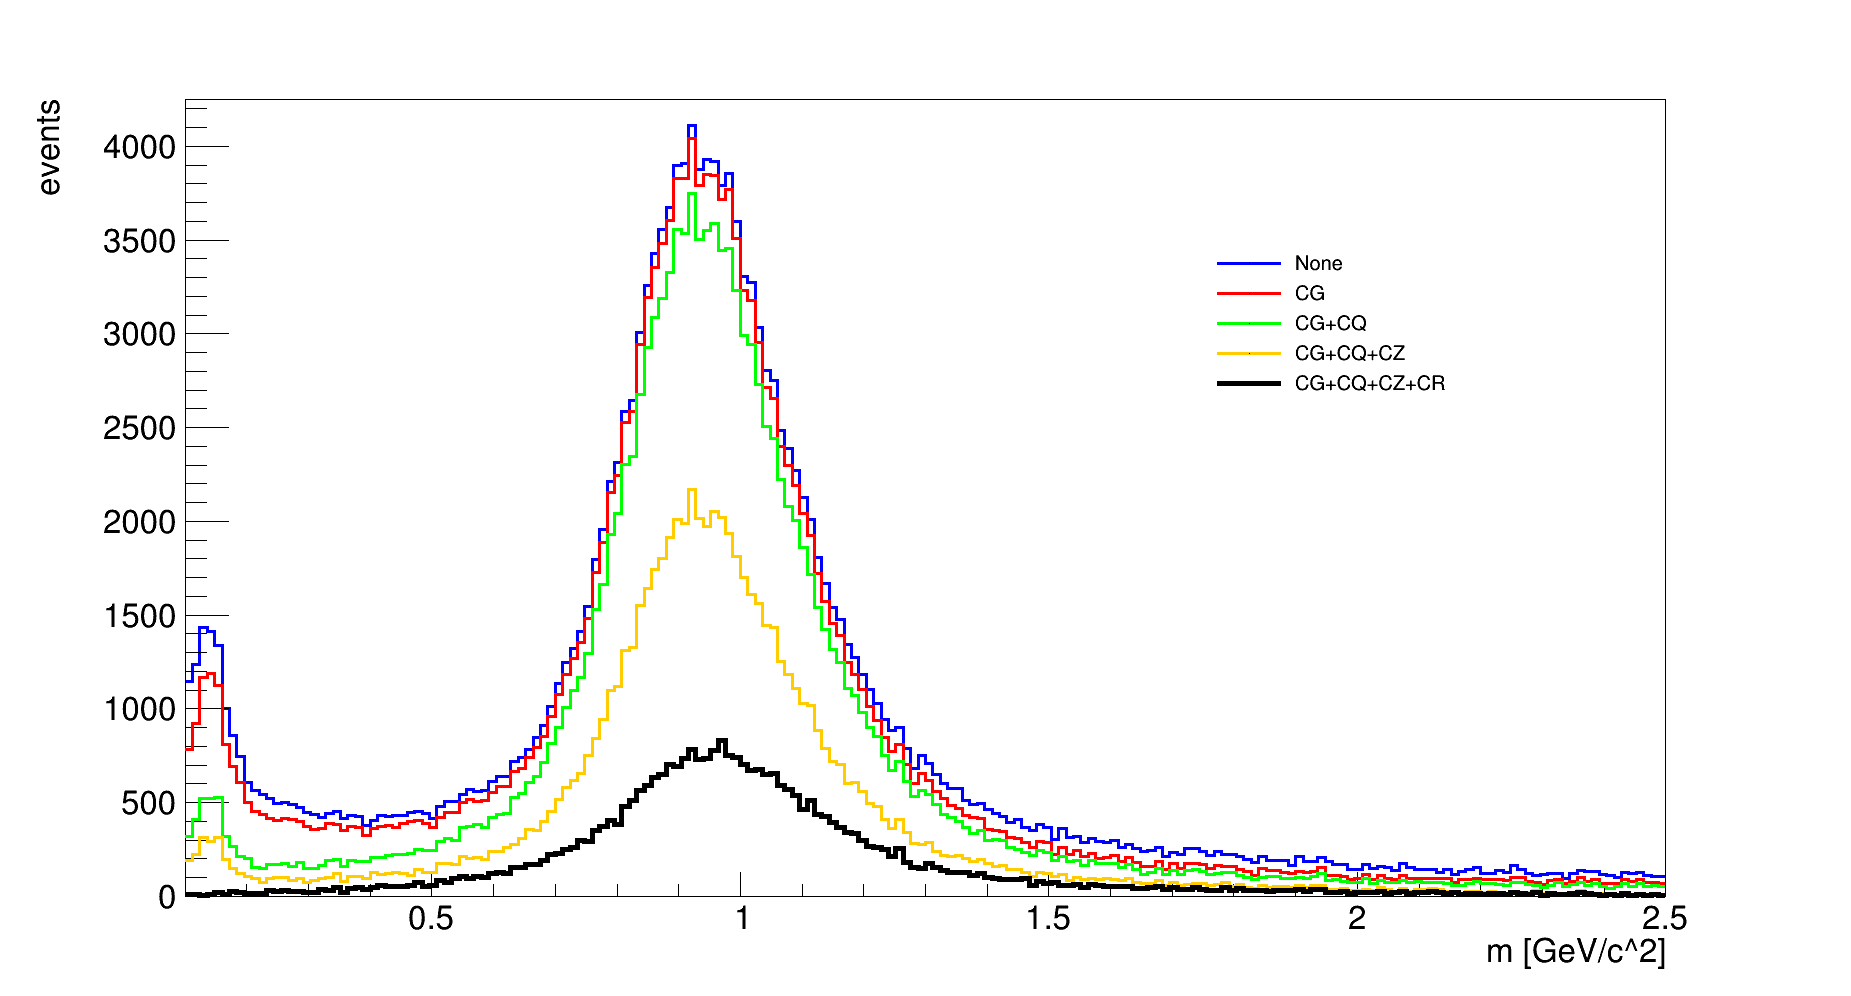
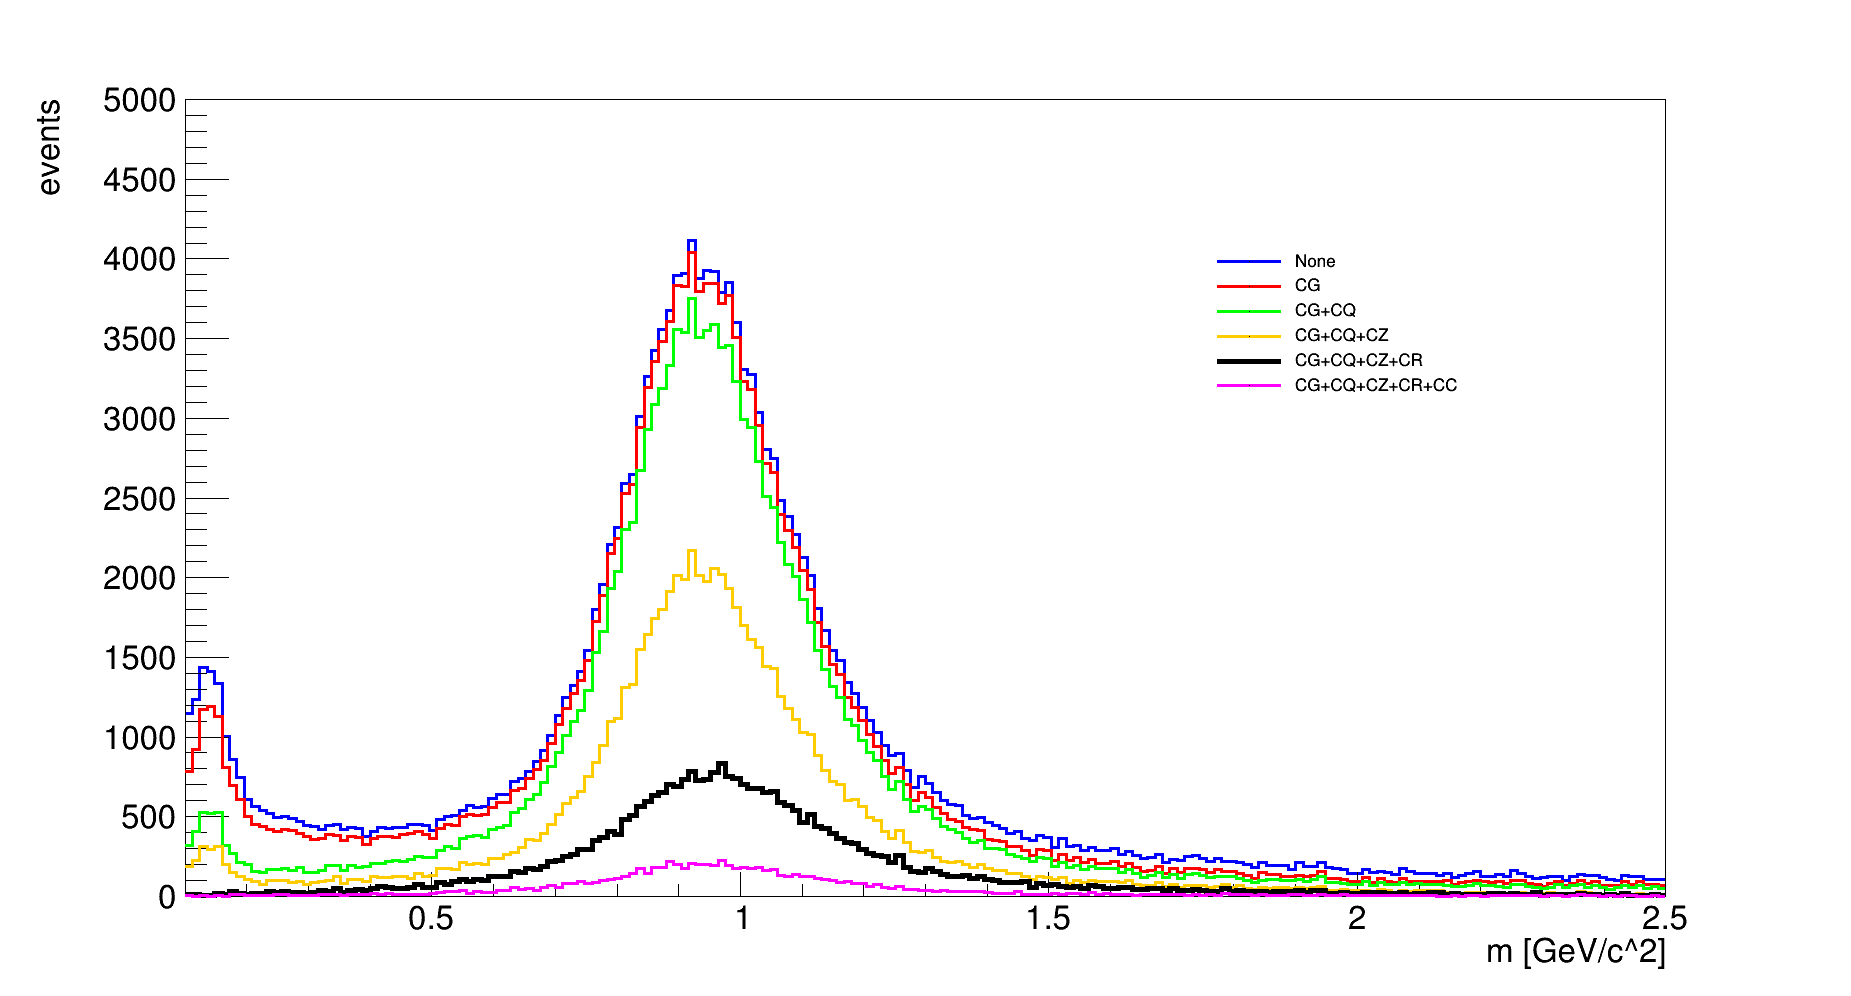
update 28-10-20

diff --git a/CutAnalysis.py b/CutAnalysis.py
@@ -45,6 +45,8 @@ CZb = ROOT.TCut('trk_q_lay[4]{0}0 && trk_q_lay[1]{0}0 && trk_q_lay[2]{0}0 && trk
 CZ = CZa + CZb
 # Geo-magnetic cut-off
 CR = ROOT.TCut('trk_rig > {0}*cf'.format(geo_crit)) # geo-magnetic cut-off
+# TOF - RICH Consistency
+CC = ROOT.TCut('abs(tof_beta-rich_beta)/tof_beta > 0.05')
 
 # ------------------------------------------------------------------------------
 # PLOT FUNCTION
@@ -52,7 +54,7 @@ CR = ROOT.TCut('trk_rig > {0}*cf'.format(geo_crit)) # geo-magnetic cut-off
 
 ROOT.gStyle.SetOptTitle(0)
 
-def cut_plot(par, title='', xlabel='', ylabel='events', stats=False, bins=200, xrange=(0,0), yrange=(0,0), log_y=True, prop=False):
+def cut_plot(par, title='', xlabel='', ylabel='events', stats=False, bins=200, xrange=(0,0), yrange=(0,0), log_y=True, prop=False, lx=0.65, ly=0.6):
     # Create Canvas
     if title == '':
         title = par
@@ -64,18 +66,21 @@ def cut_plot(par, title='', xlabel='', ylabel='events', stats=False, bins=200, x
     chain.Draw('{} >> {}({}, {})'.format(par, title+'3', bins, xrange), CG+CQ, 'SAME')
     chain.Draw('{} >> {}({}, {})'.format(par, title+'4', bins, xrange), CG+CQ+CZ, 'SAME')
     chain.Draw('{} >> {}({}, {})'.format(par, title+'5', bins, xrange), CG+CQ+CZ+CR, 'SAME')
+    chain.Draw('{} >> {}({}, {})'.format(par, title+'6', bins, xrange), CG+CQ+CZ+CR+CC, 'SAME')
     # Get TH1F objects
     hist1 = ROOT.gROOT.FindObject(title+'1')
     hist2 = ROOT.gROOT.FindObject(title+'2')
     hist3 = ROOT.gROOT.FindObject(title+'3')
     hist4 = ROOT.gROOT.FindObject(title+'4')
     hist5 = ROOT.gROOT.FindObject(title+'5')
+    hist6 = ROOT.gROOT.FindObject(title+'6')
     # Coloring
     hist1.SetLineColor(ROOT.kBlue); hist1.SetLineWidth(3)
     hist2.SetLineColor(ROOT.kRed); hist2.SetLineWidth(3)
     hist3.SetLineColor(ROOT.kGreen); hist3.SetLineWidth(3)
     hist4.SetLineColor(ROOT.kOrange); hist4.SetLineWidth(3)
     hist5.SetLineColor(ROOT.kBlack); hist5.SetLineWidth(5)
+    hist6.SetLineColor(ROOT.kMagenta); hist6.SetLineWidth(3)
     # Labelling
     # hist1.SetTitle(title) # Title is bugging, so just get rid of it (won't use it in thesis anyway)
     hist1.GetXaxis().SetTitle(xlabel)
@@ -86,12 +91,13 @@ def cut_plot(par, title='', xlabel='', ylabel='events', stats=False, bins=200, x
         hist1.SetAxisRange(yrange[0], yrange[1], "Y")
     canvas.SetLogy(log_y)
     # Legend
-    legend = ROOT.TLegend(0.65 ,0.6 ,0.85 ,0.75)
+    legend = ROOT.TLegend(lx, ly,lx+.20, ly+.15)
     legend.AddEntry(hist1, 'None')
     legend.AddEntry(hist2, 'CG')
     legend.AddEntry(hist3, 'CG+CQ')
     legend.AddEntry(hist4, 'CG+CQ+CZ')
     legend.AddEntry(hist5, 'CG+CQ+CZ+CR')
+    legend.AddEntry(hist6, 'CG+CQ+CZ+CR+CC')
     legend.SetLineWidth(0)
     #legend.SetTextSize(10) # This line makes text in TLegend disappear !!!
     legend.Draw() # TLegend can be drawn here but has to returned as well !!!
@@ -102,6 +108,7 @@ def cut_plot(par, title='', xlabel='', ylabel='events', stats=False, bins=200, x
         he1 = hist3.GetEntries(); print('CG+CQ: ', he1, '({:.1f} %)'.format(he1/chain_events*100))
         he1 = hist4.GetEntries(); print('CG+CQ+CZ: ', he1, '({:.1f} %)'.format(he1/chain_events*100))
         he1 = hist5.GetEntries(); print('CG+CQ+CZ+CR: ', he1, '({:.1f} %)'.format(he1/chain_events*100))
+        he1 = hist6.GetEntries(); print('CG+CQ+CZ+CR+CC: ', he1, '({:.1f} %)'.format(he1/chain_events*100))
     # Delete histograms
     # ROOT.hist1.SetDirectory(0)
     # ROOT.hist2.SetDirectory(0)
@@ -118,28 +125,41 @@ def cut_plot(par, title='', xlabel='', ylabel='events', stats=False, bins=200, x
 c, l = cut_plot('tof_beta', title='TOF Beta', xlabel='beta (v/c)', xrange=(.01,2.), prop=True)
 c.Print(out_path + 'TOF_Beta.png')
 # RICH Beta
-c, l =cut_plot('rich_beta', title='RICH Beta', xlabel='beta (v/c)', xrange=(.74,1.05))
+c, l = cut_plot('rich_beta', title='RICH Beta', xlabel='beta (v/c)', xrange=(.74,1.05), lx=.2)
 c.Print(out_path + 'RICH_Beta.png')
 # Tracker Rigidity
-c, l =cut_plot('trk_rig', title='Tracker Rigidity', xlabel='R [GV]', xrange=(0,22), yrange=(1,1e6))
+c, l = cut_plot('trk_rig', title='Tracker Rigidity', xlabel='R [GV]', xrange=(0,22), yrange=(1,1e6))
 c.Print(out_path + 'Tracker_Rigidity.png')
 # Inner Tracker Charge
-c, l =cut_plot('trk_q_inn', title='Inner Tracker Charge', xlabel='Z [e]', xrange=(0.3,3.0), yrange=(1,1e5))
+c, l = cut_plot('trk_q_inn', title='Inner Tracker Charge', xlabel='Z [e]', xrange=(0.3,3.0), yrange=(1,1e5), lx=.7)
 c.Print(out_path + 'Inner_Tracker_Charge.png')
 # First Tracker Layer Charge
-c, l =cut_plot('trk_q_lay[0]', title='First Tracker Layer Charge', xlabel='Z [e]', xrange=(0.3,3.0), yrange=(1,3e4))
+c, l = cut_plot('trk_q_lay[0]', title='First Tracker Layer Charge', xlabel='Z [e]', xrange=(0.3,3.0), yrange=(1,3e4), lx=.7)
 c.Print(out_path + 'First_Tracker_Layer_Charge.png')
 # Bending Plane Chi-squared
-c, l =cut_plot('trk_chisqn[1]', title='Bending Plane Chi-squared', xlabel='chi-squared', xrange=(-.5,10.5), yrange=(1,3e5))
+c, l = cut_plot('trk_chisqn[1]', title='Bending Plane Chi-squared', xlabel='chi-squared', xrange=(-.5,10.5), yrange=(1,3e5))
 c.Print(out_path + 'Bending_Plane_Chisquared.png')
 # TOF Mass
-c, l =cut_plot('trk_q_inn * trk_rig * TMath::Sqrt(1/tof_beta/tof_beta - 1)', title='TOF Mass',
-                xlabel='m [GeV/c^2]', xrange=(.1,2.5), yrange=(0, 3750), log_y=False)
+c, l = cut_plot('trk_q_inn * trk_rig * TMath::Sqrt(1/tof_beta/tof_beta - 1)', title='TOF Mass Log',
+                xlabel='m [GeV/c^2]', xrange=(.1,2.5), yrange=(1, 3750), log_y=True, ly=.15)
+c.Print(out_path + 'TOF_Mass_Log.png')
+c, l = cut_plot('trk_q_inn * trk_rig * TMath::Sqrt(1/tof_beta/tof_beta - 1)', title='TOF Mass',
+                xlabel='m [GeV/c^2]', xrange=(.1,2.5), yrange=(0, 4000), log_y=False)
 c.Print(out_path + 'TOF_Mass.png')
 # RICH Mass
-c, l =cut_plot('trk_q_inn * trk_rig * TMath::Sqrt(1/rich_beta/rich_beta - 1)', title='RICH Mass',
-                xlabel='m [GeV/c^2]', xrange=(.1,2.5), yrange=(0, 4250), log_y=False)
+c, l = cut_plot('trk_q_inn * trk_rig * TMath::Sqrt(1/rich_beta/rich_beta - 1)', title='RICH Mass Log',
+                xlabel='m [GeV/c^2]', xrange=(.1,2.5), yrange=(1, 4250), log_y=True, ly=.7)
+c.Print(out_path + 'RICH_Mass_Log.png')
+c, l = cut_plot('trk_q_inn * trk_rig * TMath::Sqrt(1/rich_beta/rich_beta - 1)', title='RICH Mass',
+                xlabel='m [GeV/c^2]', xrange=(.1,2.5), yrange=(0, 5000), log_y=False)
 c.Print(out_path + 'RICH_Mass.png')
+# Livetime
+c, l = cut_plot('lf', title='Livetime', xlabel='t [s]', xrange=(0,1), log_y=True, lx=.2);
+c.Print(out_path + 'Livetime.png')
+# TOF - RICH Consistency
+c, l = cut_plot('abs(tof_beta-rich_beta)/tof_beta', title='TOF - RICH Beta Consistency',
+                xlabel='t [s]', xrange=(0,0.3), yrange=(1, 1e4), log_y=True)
+c.Print(out_path + 'TOF_RICH_Beta_Consistency')
 
 # ------------------------------------------------------------------------------
 # YET TO FIX: ALL BELOW
